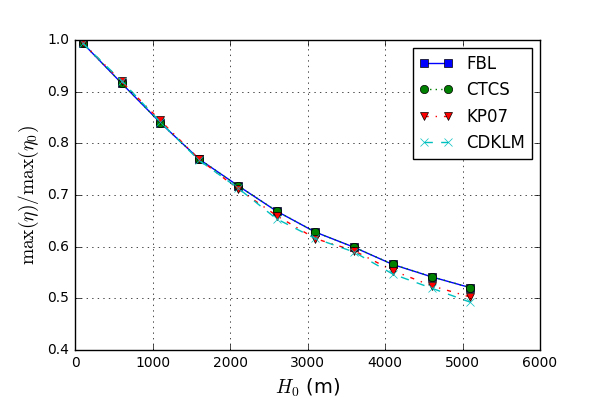
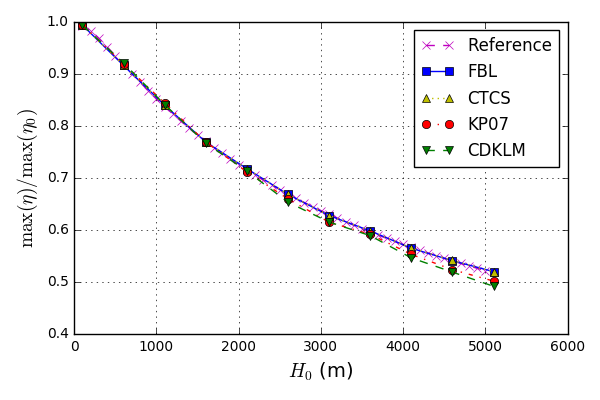
Added reference solution to Rossby adjustment varying depth test case

Changed region(s): [[0.03, 0.03, 0.99, 0.99]]

diff --git a/python/matlab/variable_depth_steady_state.m b/python/matlab/variable_depth_steady_state.m
@@ -1,0 +1,114 @@
+%function [A]=kernal2D(D,U,V,F)
+  % Kernal for two dimensional problems
+  % D-diffusion coefficient
+  % U-Advection velocity in x-direction
+  % V-Advection velocity in y-direction
+  % F-Coefficient for source term that depend on the variable
+  % Note that the routine requires that D, U, and F are constants
+
+  close all, clear all, pack
+  
+ % Global parameters
+    global x dx Nx y dy Ny
+
+  % Model setting
+    % Grid
+      Nx=801;  dx=50000;
+      Ny=1001; dy=50000;
+      x=((1:Nx)-(Nx-1)/2)*dx; y=((1:Ny)-(Ny-1)/2)*dy;
+      
+    % Init conditions
+      [X,Y]=meshgrid(x,y);
+      R=sqrt(X.*X+Y.*Y); figure; pcolor(R); shading flat; colorbar; title("Radius")
+    % Physical parameters
+      g=9.81;
+      f=1.2e-4;
+      H0=1000;
+     
+      % Derived parameters
+      c=sqrt(g*H0)
+      a=c/f
+      aa=1/(a*a)
+    
+    % Finding the "matricss" kernnal for numerics
+      D=1; U=0; V=0; F=aa;
+      [A]=kernal2D(-D,U,V,F);
+    
+    % Values of the source function (i.e., -h0)
+      s=zeros(Nx,Ny);
+%       % Case, square
+%         isize=40 /2
+%         s((Nx-1)/2-isize:(Nx-1)/2+isize,(Ny-1)/2-isize:(Ny-1)/2+isize)=aa;       
+      % Softer radial conditions (implemented in CTCS code)
+        L = 15*dx
+        D = 50*dx
+        etaamp = 0.2
+        %s =aa* 0.5*etaamp*(1.0+tanh((-R+D)/L))'; 
+        s = 0.5*etaamp*(1.0+tanh((-R+D)/L))'; 
+      % Plotting the initial condition
+      % figure; pcolor(s'); colorbar; shading flat; title("Init Eta")
+       
+    % Finding the solution
+      % Organize the matrix for inversion
+       % B=aa*reshape(s,Nx*Ny,1);
+       % tmp=A\B;
+       % h(:,:)=reshape(tmp,Nx,Ny);
+      % Plot the solution
+       % figure; pcolor(h(2:end-1,2:end-1)'); colorbar; shading flat; title("Original result (eta)")
+        %figure; plot(x/dx, h(:,(Ny-1)/2)/etaamp, x/dx, s(:,(Ny-1)/2)/aa/etaamp); title("Original Comparison init - steady state")
+        %xlim([-150 150])
+        %figure; plot(x/dx, h(:,(Ny-1)/2), x/dx, s(:,(Ny-1)/2)); title("Comparison init - steady state")
+        %xlim([-150 150])
+        %Not sure why it does not work on the boundaries
+      % Save data
+       %save('KG.mat','h') %, 'X', 'Y')
+       
+       %max(max( h(:,(Ny-1)/2)/etaamp))
+       
+%% Loop for sensitivity
+   %close all, clear HH hmax A B s h
+   %figure(10); hold on; xlabel('x/dx','FontSize',[16]); ylabel('\eta_{max}/\eta_0','FontSize',[16])
+   ic=0;
+   for xH=100:100:5000; ic=ic+1;
+   %for xH=100:100:500; ic=ic+1;
+      %disp('starting xH = ' + xH)
+      HH(ic)=xH;
+      H0=xH;
+      c=sqrt(g*H0);
+      a=c/f;
+      aa=1/(a*a)
+    
+      D=1; U=0; V=0; F=aa;
+      [A]=kernal2D(-D,U,V,F);
+    
+
+        L = 15*dx;
+        D = 50*dx; %D used at two places!!!!
+	etaamp = 0.2; 
+        s=zeros(Nx,Ny);
+        s =0.5*etaamp*(1.0+tanh((-R+D)/L))'; 
+
+        B=aa*reshape(s,Nx*Ny,1);
+        tmp=A\B;
+        h(:,:)=reshape(tmp,Nx,Ny);
+      % Plot the solution
+      %  figure(10); plot(x/dx, h(:,(Ny-1)/2)/etaamp, x/dx, s(:,(Ny-1)/2)/aa/etaamp)
+      %  xlim([-150 150])
+      % save('KG.mat','h')
+     hmax(ic)=max(max(h)) / etaamp ;
+     BB(ic)=sum(sum(h)) *dx / etaamp ;
+ 
+   end
+   save -6 varDepthMax.mat, hmax, HH
+   %save('varDepthMax.mat', 'hmax', 'HH')
+
+   %figure; plot(HH,hmax,'LineWidth',[2]); title('\eta at steady state','FontSize',[18])
+   %  xlabel('H_0 [m]','FontSize',[16]); ylabel('\eta_{max}/\eta_0','FontSize',[16])
+   %  xlim([0 5000]); ylim([0 1])
+   
+   % qq= BB/(sum(sum(s))/aa/etaamp *dx)./hmax; % Clumsy, but here is the normalization 
+   %figure; plot(HH,qq,'LineWidth',[2]); title('Width at steady state','FontSize',[18])
+   %  xlabel('H_0 [m]','FontSize',[16]); ylabel('\int(eta)/\int(eta_0)','FontSize',[16])
+   %  xlim([0 5000]); %ylim([0 1])
+   
+   
